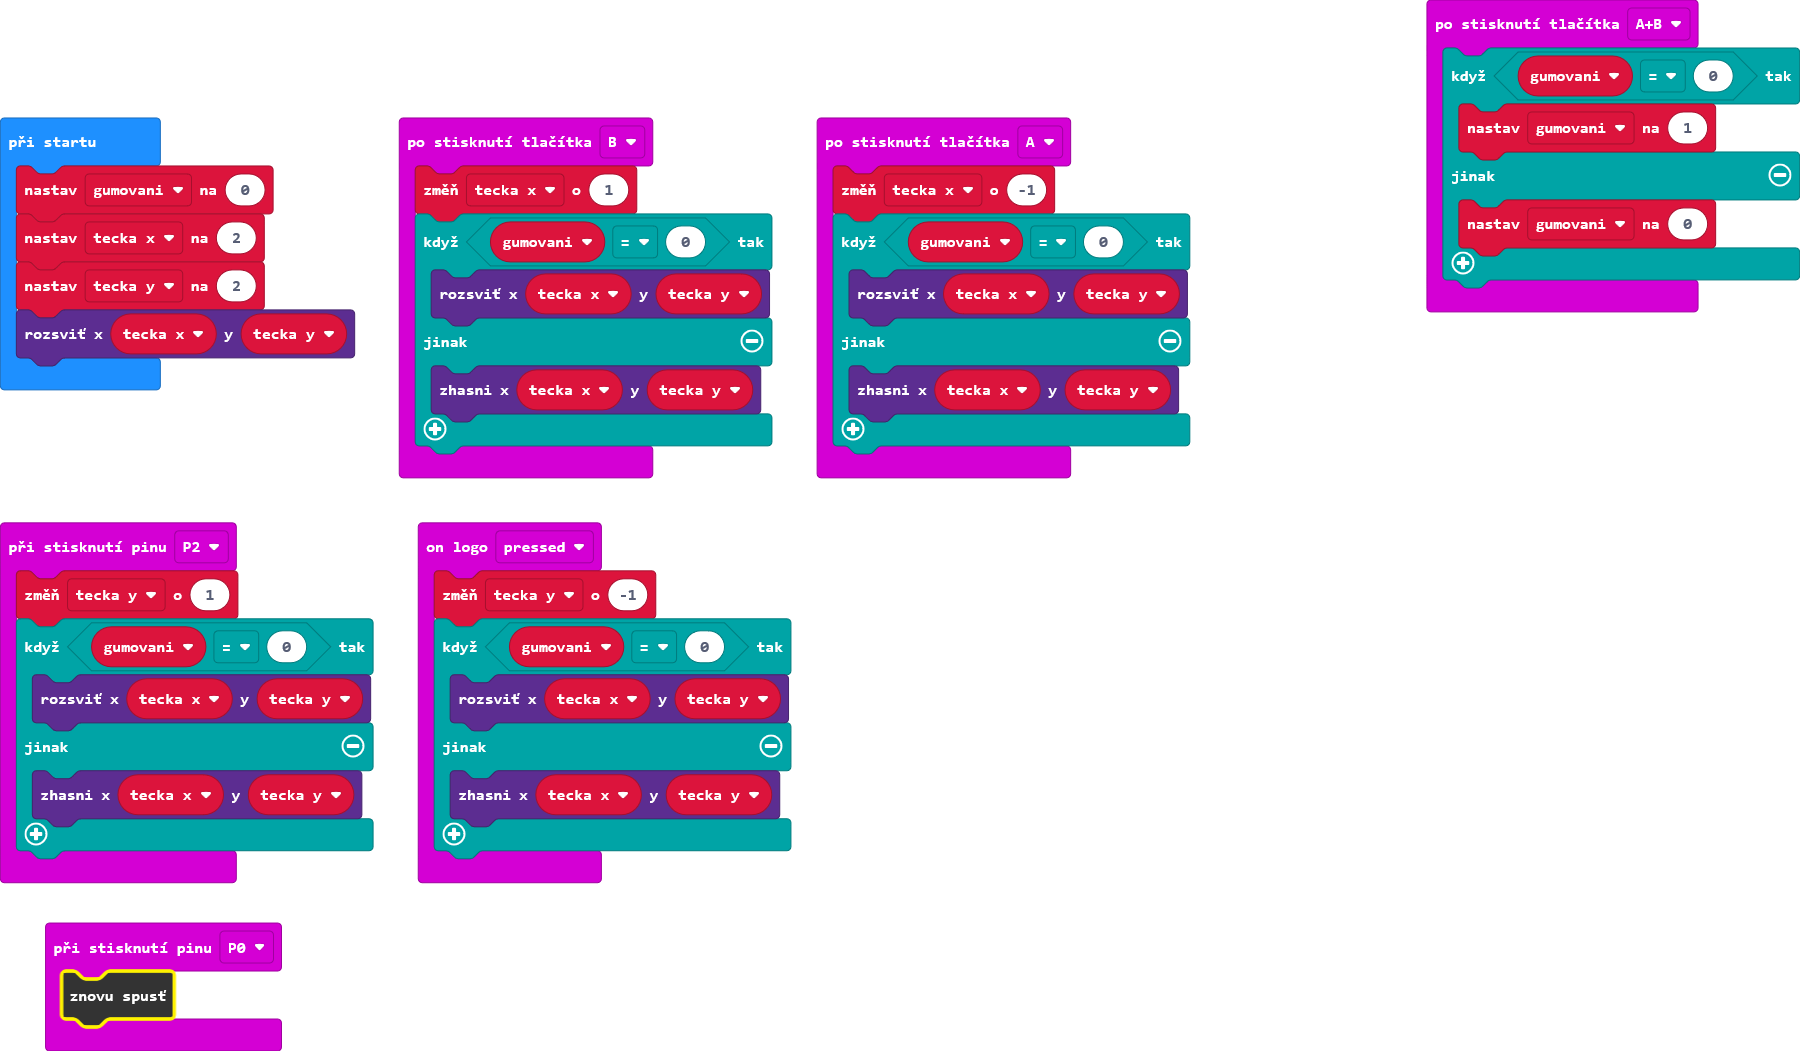
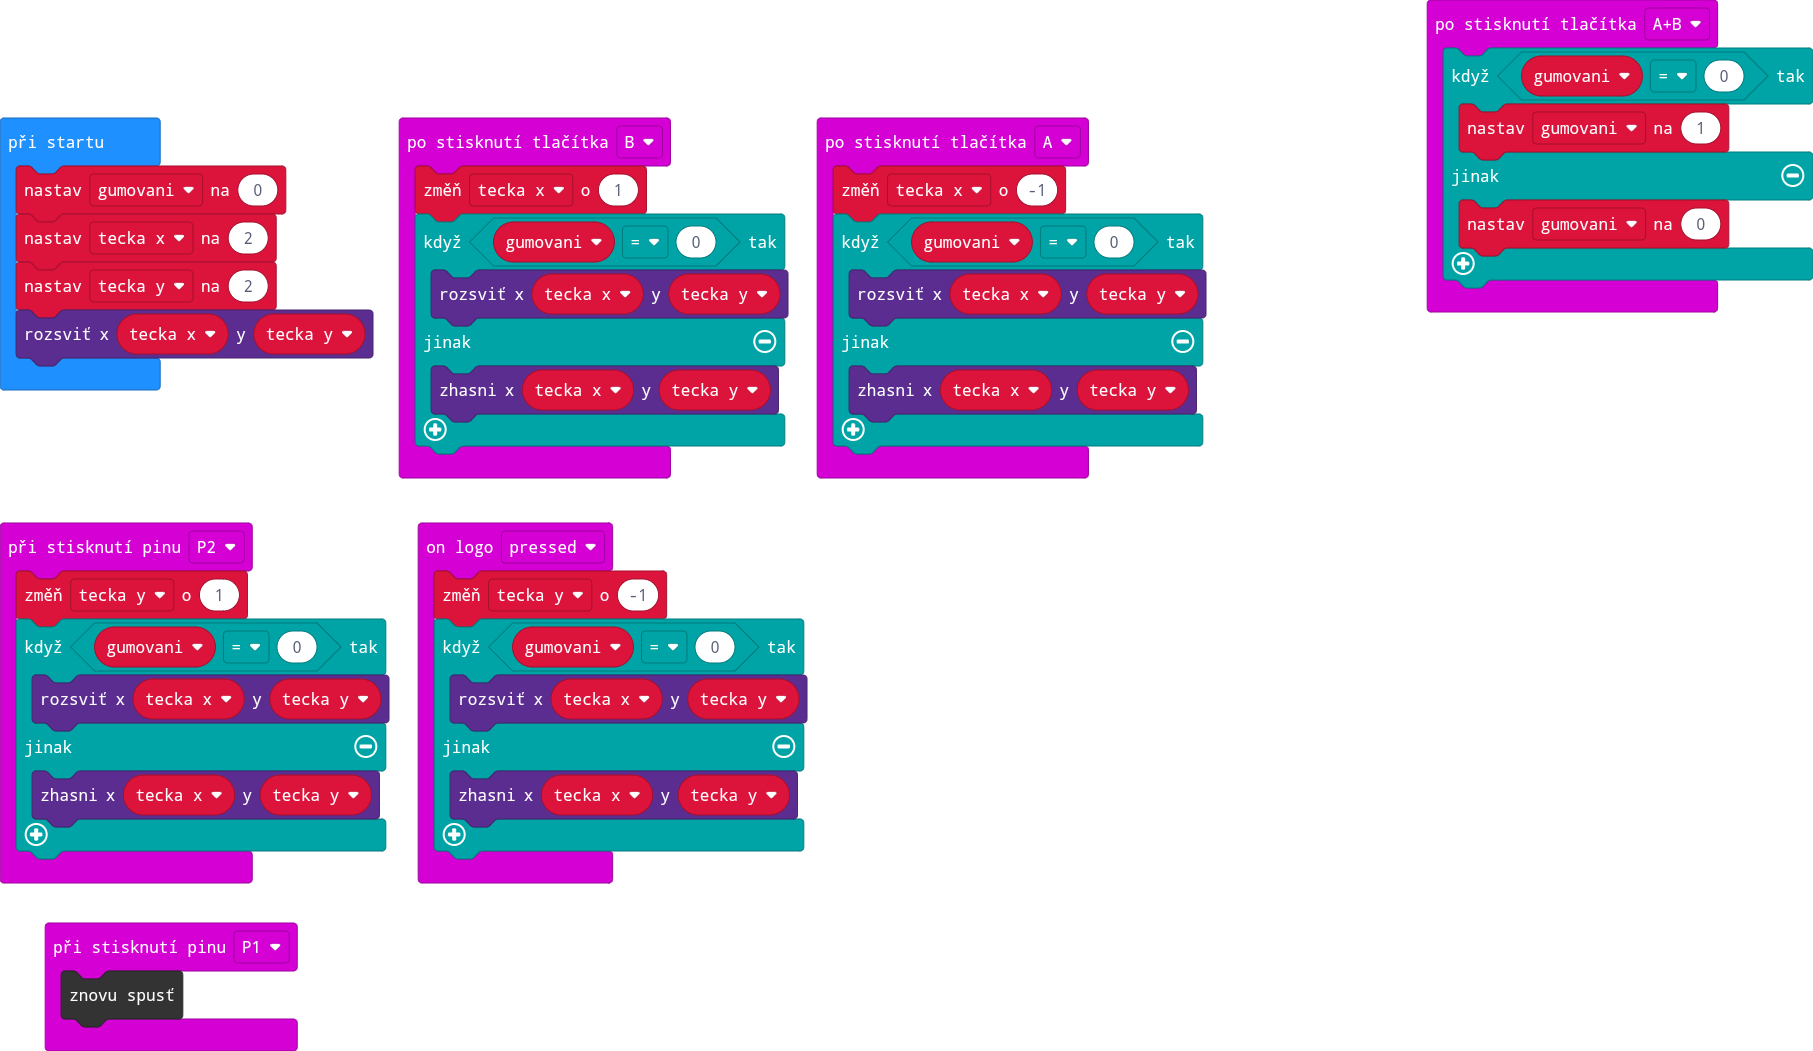
Aktualizovat main.blocks, main.ts

diff --git a/main.ts b/main.ts
@@ -1,6 +1,3 @@
-input.onPinPressed(TouchPin.P0, function () {
-    control.reset()
-})
 input.onButtonPressed(Button.A, function () {
     tecka_x += -1
     if (gumovani == 0) {
@@ -31,6 +28,9 @@ input.onButtonPressed(Button.B, function () {
     } else {
         led.unplot(tecka_x, tecka_y)
     }
+})
+input.onPinPressed(TouchPin.P1, function () {
+    control.reset()
 })
 input.onLogoEvent(TouchButtonEvent.Pressed, function () {
     tecka_y += -1
